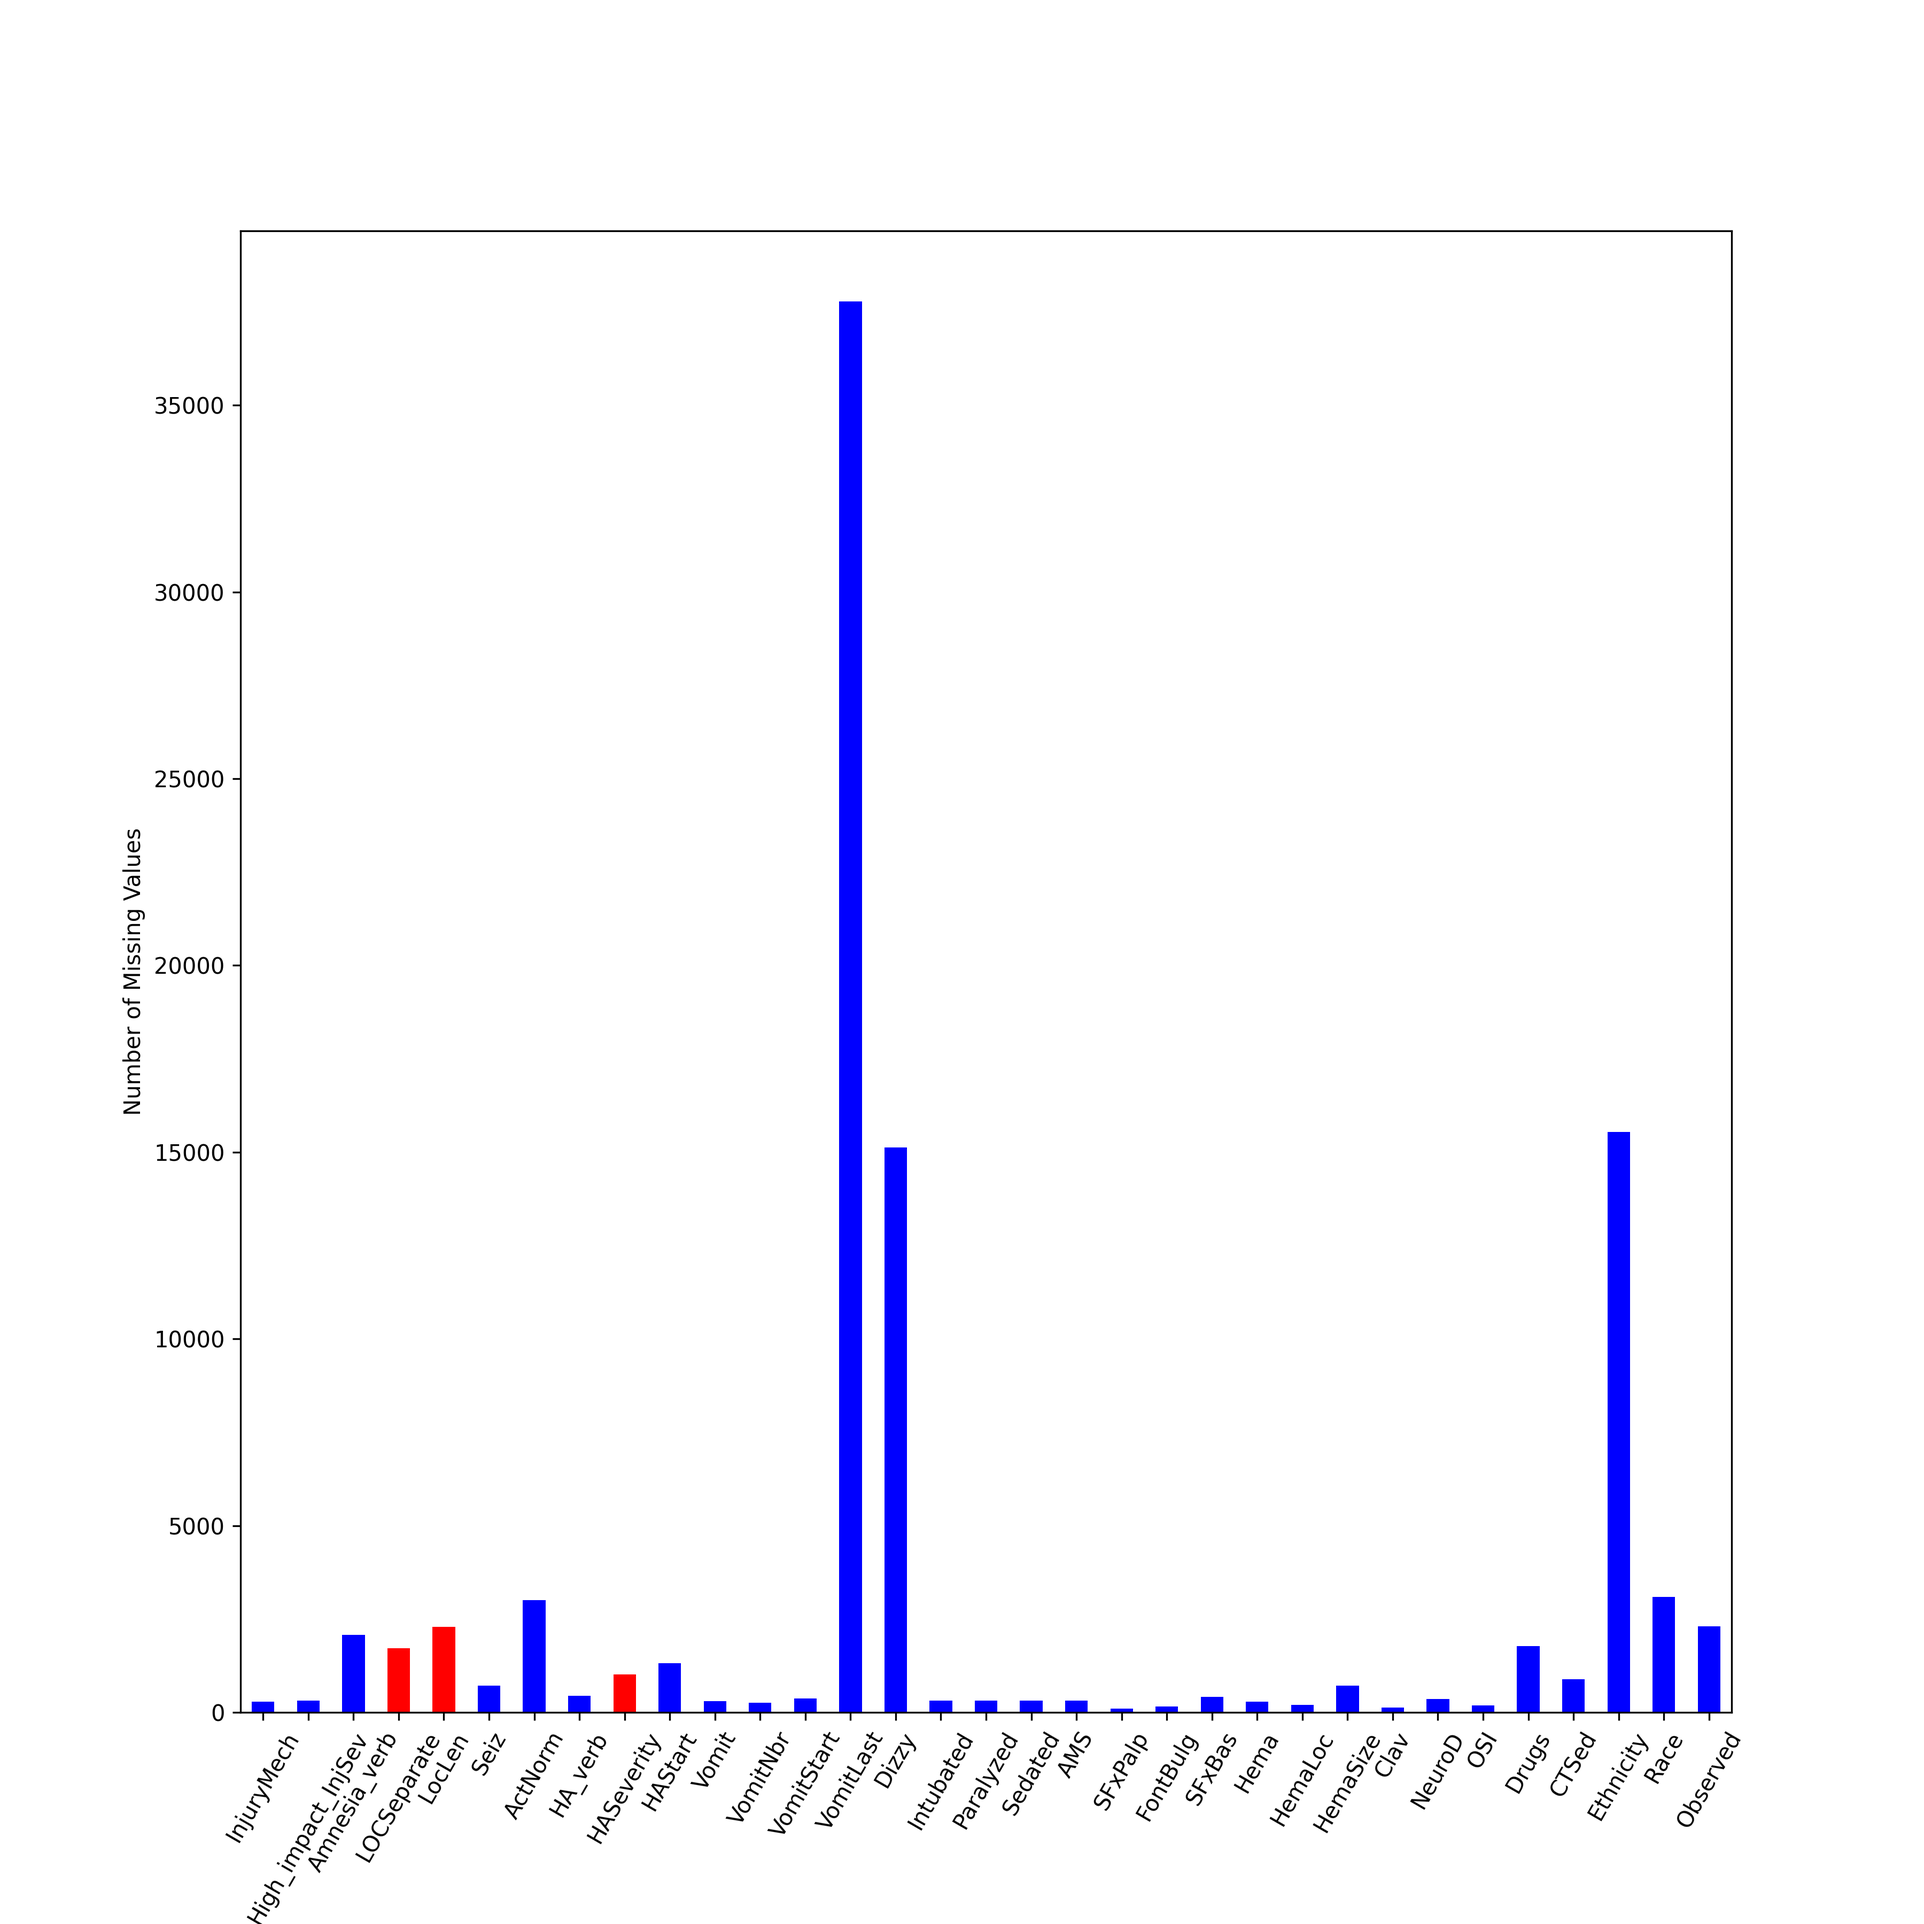
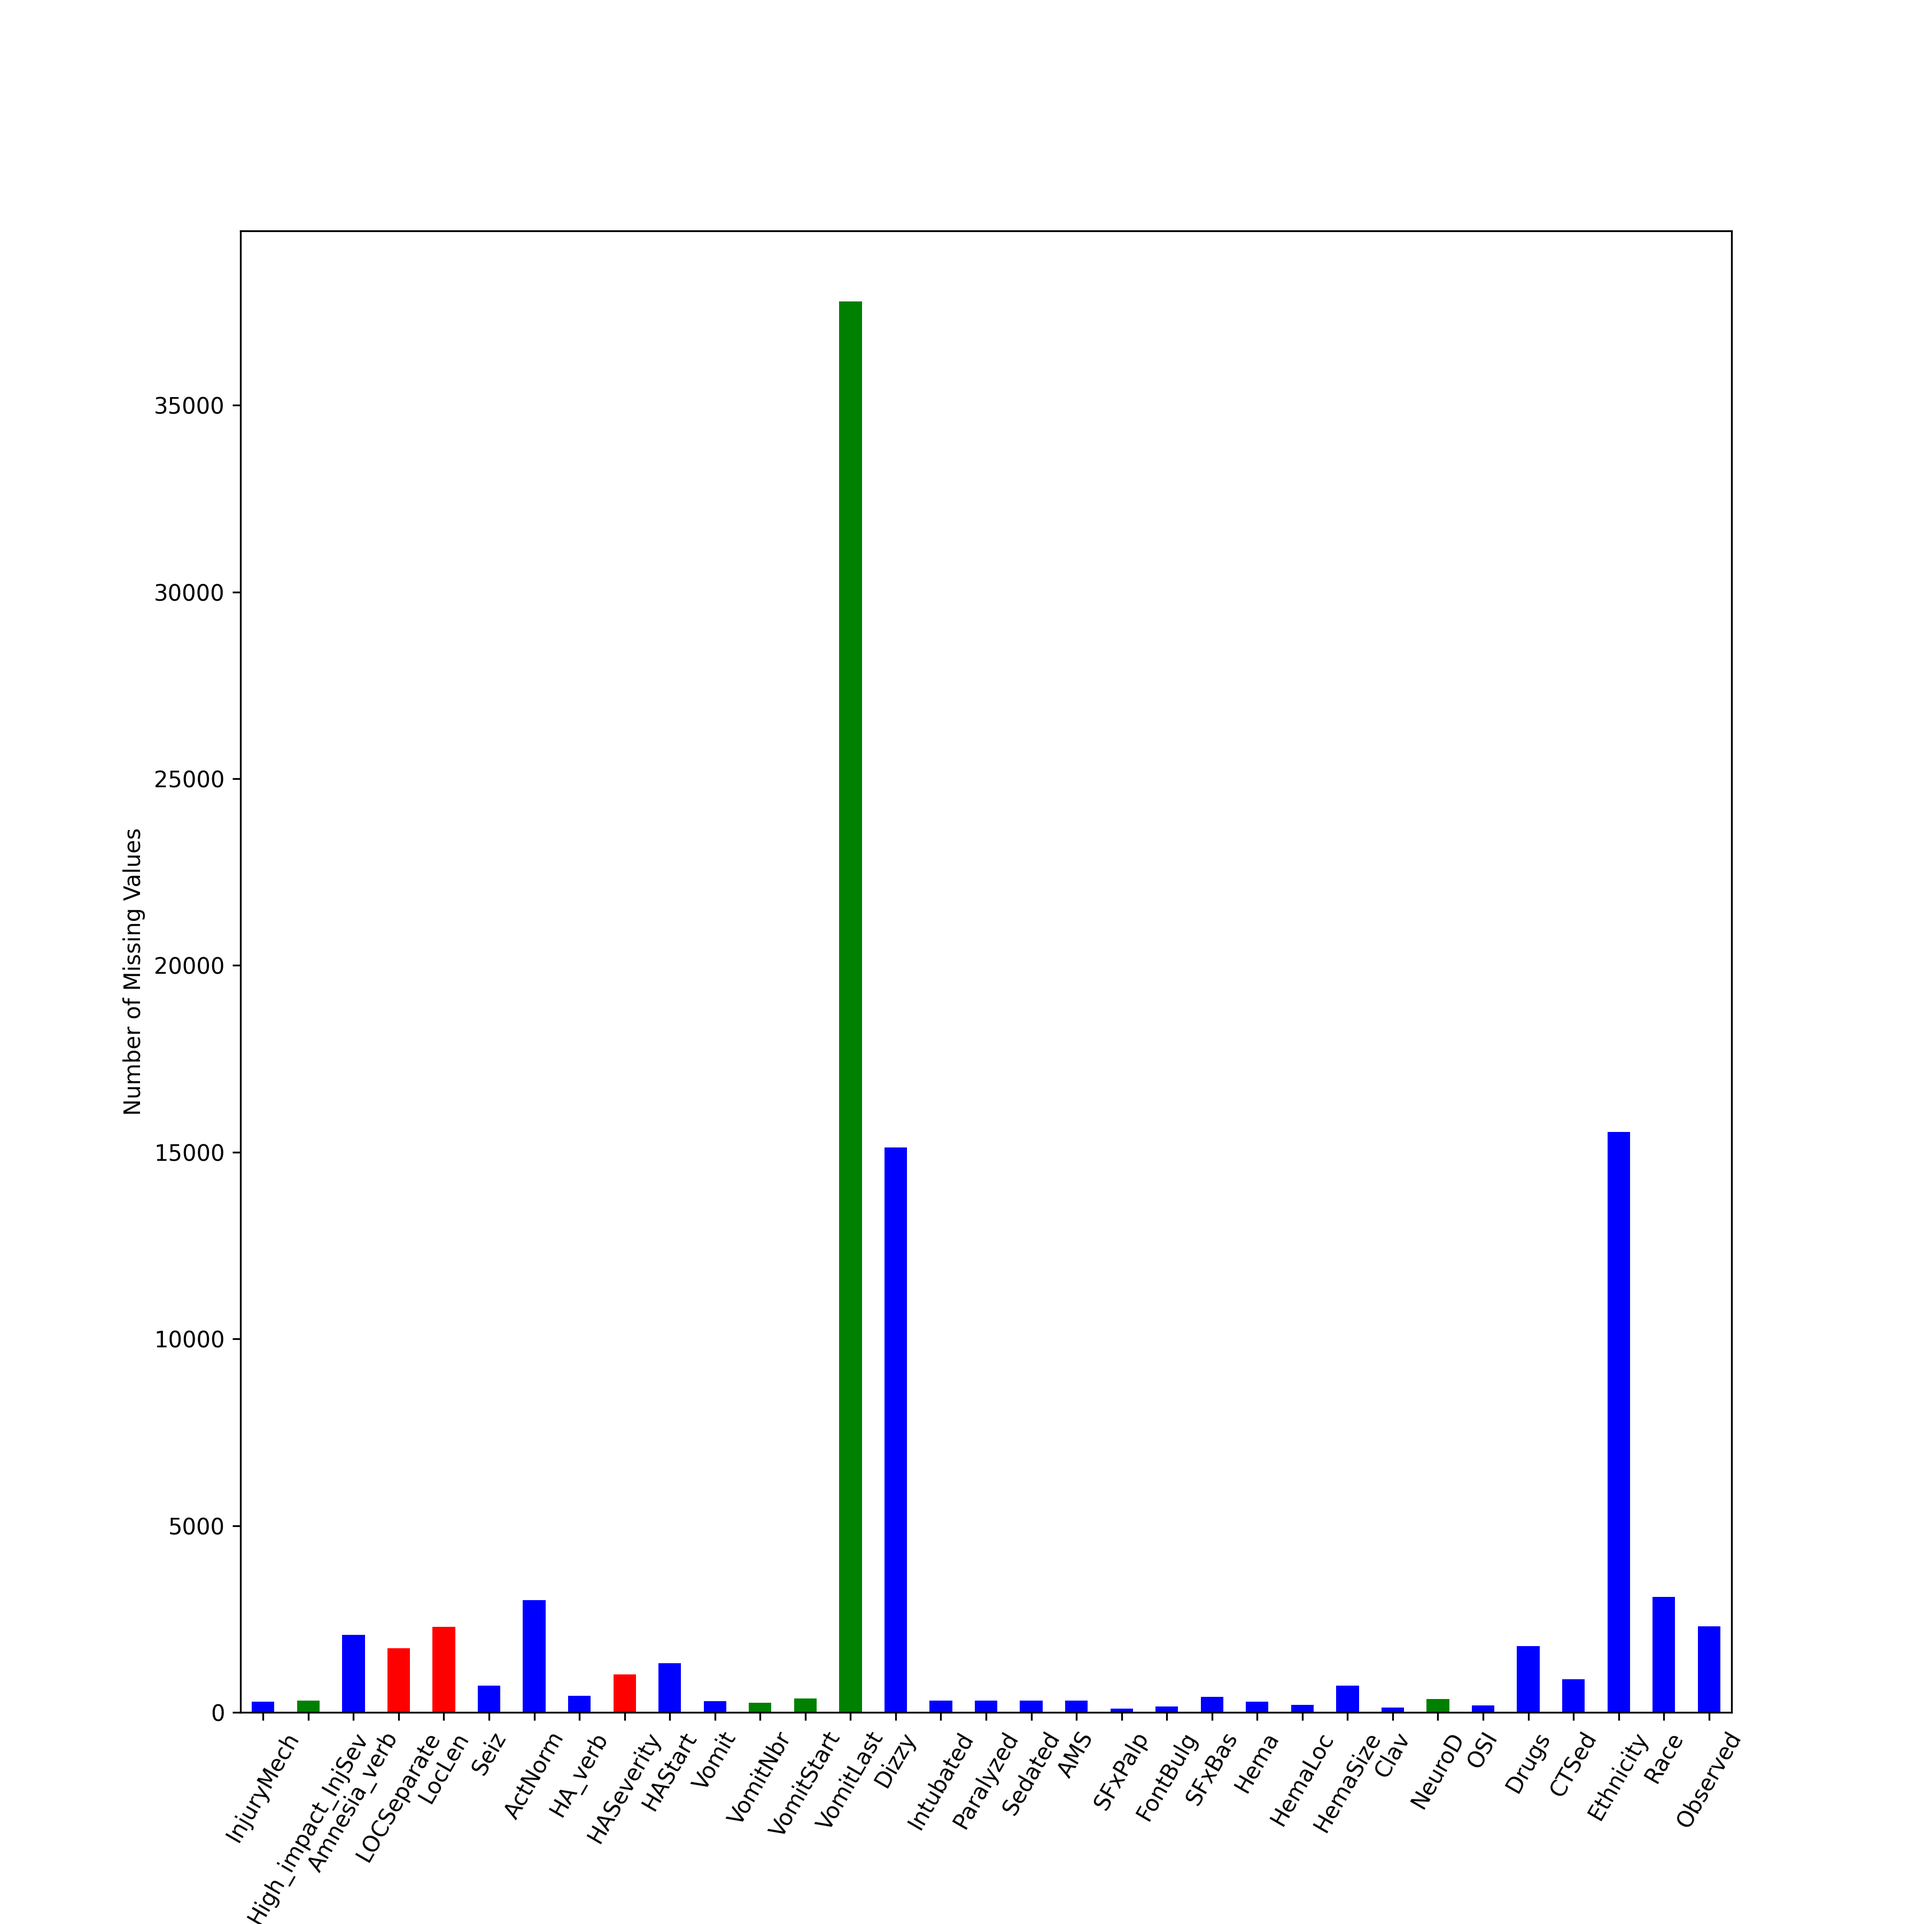
viz

Changed region(s): [[0.4356, 0.1556, 0.4667, 0.9022]]

diff --git a/rulevetting/projects/tbi_pecarn/dataset.py b/rulevetting/projects/tbi_pecarn/dataset.py
@@ -2,6 +2,7 @@ import os
 import random
 from abc import abstractmethod
 import logging
+import ray
 from functools import partial
 from glob import glob
 from os.path import join as oj
@@ -24,6 +25,7 @@ from vflow import init_args, Vset, build_vset
 
 
 LOGGER = logging.getLogger("Stability Analysis")
+ray.init(num_cpus=4)
 
 class Dataset:
     """All functions take **kwargs, so you can specify any judgement calls you aren't sure about with a kwarg flag. Please refrain from shuffling / reordering the data in any of these functions, to ensure a consistent test set.
@@ -132,7 +134,6 @@ class Dataset:
                                                                                            'DeathTBI']].sum(
                 axis=1) >= 1).astype(int)
 
-            LOGGER.info(f"Data shape: {cleaned_data.shape}\nciTBI: {cleaned_data['PosIntFinal'].value_counts()/cleaned_data.shape[0]}")
 
 
         # judgement call - we drop patients with gcs <14 and thus gcs scores
@@ -141,6 +142,8 @@ class Dataset:
             cleaned_data = cleaned_data.drop(columns=['GCSTotal', 'GCSGroup'])
             gcs_vars = ['GCSEye', 'GCSMotor', 'GCSVerbal']
             cleaned_data = cleaned_data.drop(columns=gcs_vars)
+        LOGGER.info(
+            f"Data shape: {cleaned_data.shape}\nciTBI: {cleaned_data['PosIntFinal'].mean()}")
 
         # color_dict = {"red": [c for c in list(cleaned_data.columns) if c not in ["HASeverity", "LocLen", "LOCSeparate"]]}
         # color_dict['blue'] =
@@ -151,7 +154,18 @@ class Dataset:
         na_sum = cleaned_data.isna().sum()
         na_sum = na_sum[na_sum > 100]
         na_sum.reset_index(name="n")
-        clrs = ["red" if c in ["HASeverity", "LocLen", "LOCSeparate"] else "blue" for c in na_sum.index]
+        def _get_clr(c):
+            if c in ['SeizOccur', 'VomitNbr', 'VomitStart', 'VomitLast', 'AMSAgitated', 'AMSSleep',
+                                        'AMSSlow', 'AMSRepeat', 'AMSOth', 'SFxBasHem', 'SFxBasOto', 'SFxBasPer',
+                                        'SFxBasRet', 'SFxBasRhi', 'ClavFace', 'ClavNeck', 'ClavFro', 'ClavOcc',
+                                        'ClavPar', 'ClavTem', 'NeuroD', 'NeuroDMotor', 'NeuroDSensory', 'NeuroDCranial',
+                                        'NeuroDReflex', 'NeuroDOth', 'OSIExtremity', 'OSICut', 'OSICspine', 'OSIFlank',
+                                        'OSIAbdomen', 'OSIPelvis', 'OSIOth', 'High_impact_InjSev']:
+                return "green"
+            elif c in ["HASeverity", "LocLen", "LOCSeparate"]:
+                return "red"
+            return "blue"
+        clrs = [_get_clr(c) for c in na_sum.index]
         na_sum.plot.bar(x='index', y='n', rot=60, fontsize=10,
                                               legend=None, figsize=(12, 12), color=clrs)
         plt.ylabel("Number of Missing Values")
@@ -182,15 +196,13 @@ class Dataset:
 
         most_freq = cleaned_data.apply(lambda x: x.value_counts().max() / (cleaned_data.shape[0] - x.isna().sum()))
         most_freq.reset_index(name="n")
-        clrs = ["red" if c in ["HASeverity", "LocLen", "LOCSeparate"] else "blue" for c in most_freq.index]
+        clrs = [_get_clr(c) for c in most_freq.index]
 
         most_freq.plot.bar(x='index', y='n', rot=60, fontsize=10,
                                                  legend=None, figsize=(20, 12), color=clrs)
         plt.ylabel("Proportion of Most Frequent Value")
         plt.savefig("/accounts/campus/omer_ronen/projects/rule-vetting/results/most_freq.png", dpi=300)
         plt.close()
-
-        raise RuntimeError("Pick")
 
         if not kwargs['propensity']:
             def _drop_nas(col):
@@ -311,6 +323,7 @@ class Dataset:
         np.random.seed(42)
         indices = np.random.choice(n, size=n, replace=False)
         # LOGGER.info(indices[0:5])
+        print(f"Shape: {preprocessed_data.shape}, ciTBI: {preprocessed_data.outcome.mean()}")
         pre_indices = set(preprocessed_data.index)
         train_ind = list(set(indices[0:int(0.6*n)]).intersection(pre_indices))
         tune_ind = list(set(indices[int(0.6*n):int(0.8*n)]).intersection(pre_indices))
@@ -546,7 +559,7 @@ class Dataset:
             cleaned_data = clean_set(data_path_arg)
             number_of_data_points = list(cleaned_data.values())[0].shape[0]
             preprocess_set = build_vset('preprocess_data', self.preprocess_data, param_dict=kwargs['preprocess_data'],
-                                        cache_dir=CACHE_PATH)
+                                        cache_dir=CACHE_PATH,  is_async=True)
             preprocessed_data = preprocess_set(cleaned_data)
             extract_set = build_vset('extract_features', self.extract_features, param_dict=kwargs['extract_features'],
                                      cache_dir=CACHE_PATH)
